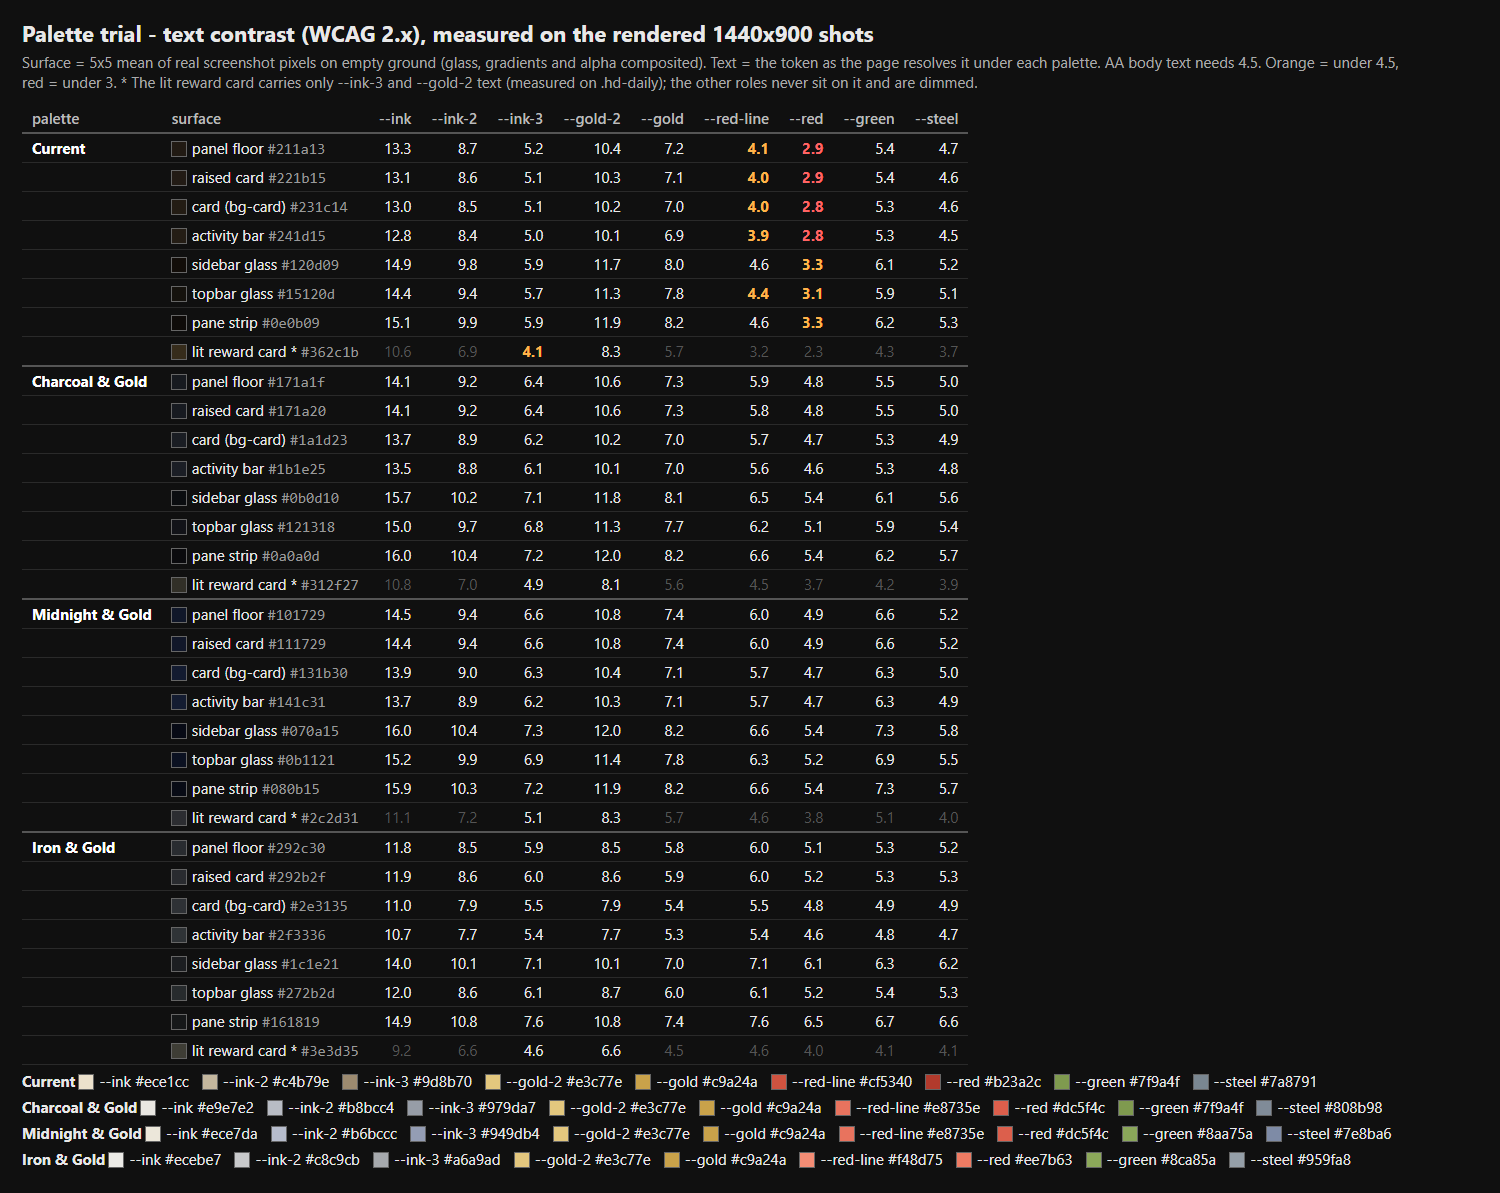
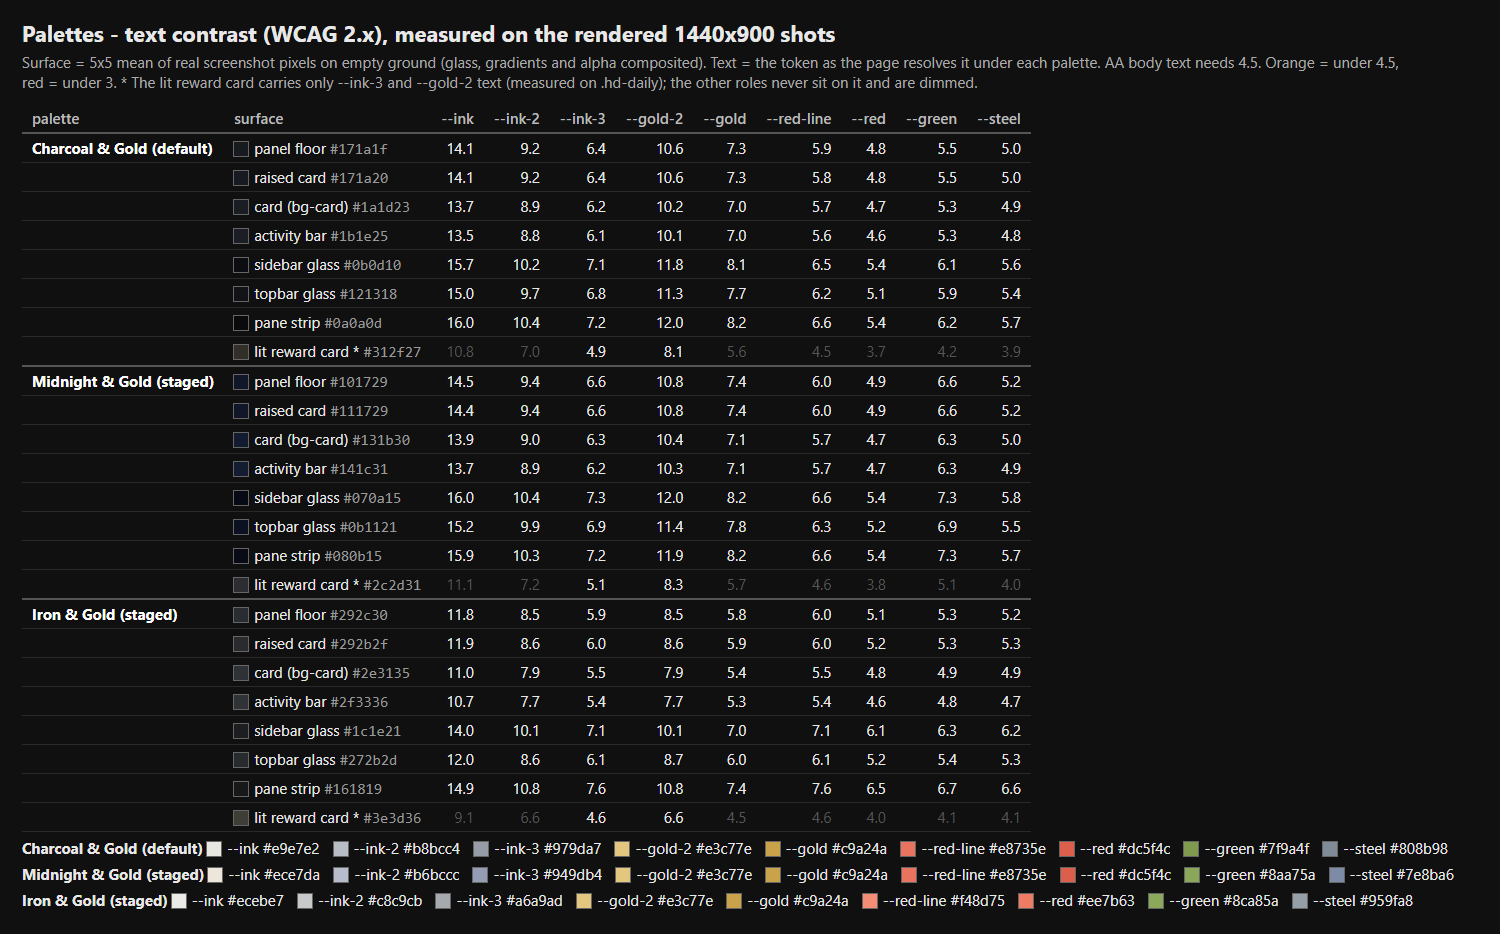
feat(palette): Charcoal & Gold is the default UI; Midnight and Iron staged
The brown ladder, glass rails, panel floor and ~80 warm-white tints are gone:
the light is one token (--hl) at each tint's own strength, hairlines read
--line-soft, --aqua-2 and the PWA splash lost their khaki/cocoa. Midnight and
Iron stay behind body[data-theme-palette] (nothing sets it). Text is AA on
every chrome surface (docs/art-experiments/palette/contrast.png). PALETTE-1
guards the ladder and the painted chrome; a brown panel floor fails it.

Changed region(s): [[0.0, 0.0, 0.9813, 0.9936]]

diff --git a/.claude/coordination/agents/art-director.md b/.claude/coordination/agents/art-director.md
@@ -2881,3 +2881,10 @@ Lessons: (1) a gold wash over navy is grey; the one lit object needs its own was
 the same VALUE as the art blurs into it whatever the hue: iron vs the town's cobbles is today's brown vs
 the cellar's dirt; (3) run-to-run screenshot noise is thousands of pixels, so "default unchanged" is proven
 with computed styles and the one-load A/B tool, never by diffing two runs.
+SHIPPED (same day, Tyler + Coordinator): Charcoal & Gold is the default ladder; Midnight and Iron stay staged
+behind the attribute with no picker (one palette to check per UI change for now). ~80 warm-white tints are
+now one light, --hl, at their own strengths (color-mix), hairline borders read --line-soft; --aqua-2 (links,
+focus ring) lost its khaki; the PWA splash/status colour follows. Left warm on purpose: the gold button's own
+highlight, the bounty board and shopfront (wooden objects), farm soil, painted scene art. PALETTE-1 guards
+the ladder AND the painted chrome (a brown panel-floor literal fails it). Lesson: a sweep that recolours
+"the light" must stop at the gold — a highlight ON gold metal is the metal's, not the UI's.

diff --git a/.claude/coordination/DISCOVERIES.md b/.claude/coordination/DISCOVERIES.md
@@ -3685,3 +3685,7 @@ tools/css-ab-pixel-diff.mjs). What stays warm under a cool palette is ~30 hairli
 mix): the Home reward card needed its own --lit-wash per palette. A mid-grey UI blends with the
 town's grey cobbles exactly as a brown UI blends with the cellar's dirt; separation from the pixel
 world comes from VALUE (darker than the art), not only from hue. Today's --red as text is 2.8:1.
+SHIPPED the same day: Charcoal & Gold is the default; the warm-white tints are one token (--hl) mixed at
+their own strengths, so a future palette moves every highlight by changing one value. Not swept, on
+purpose: src/bug-report.js inline styles (own literal ink) and src/net/account-gate.js (keeps literal
+fallbacks so the front door paints before anything else loads).
